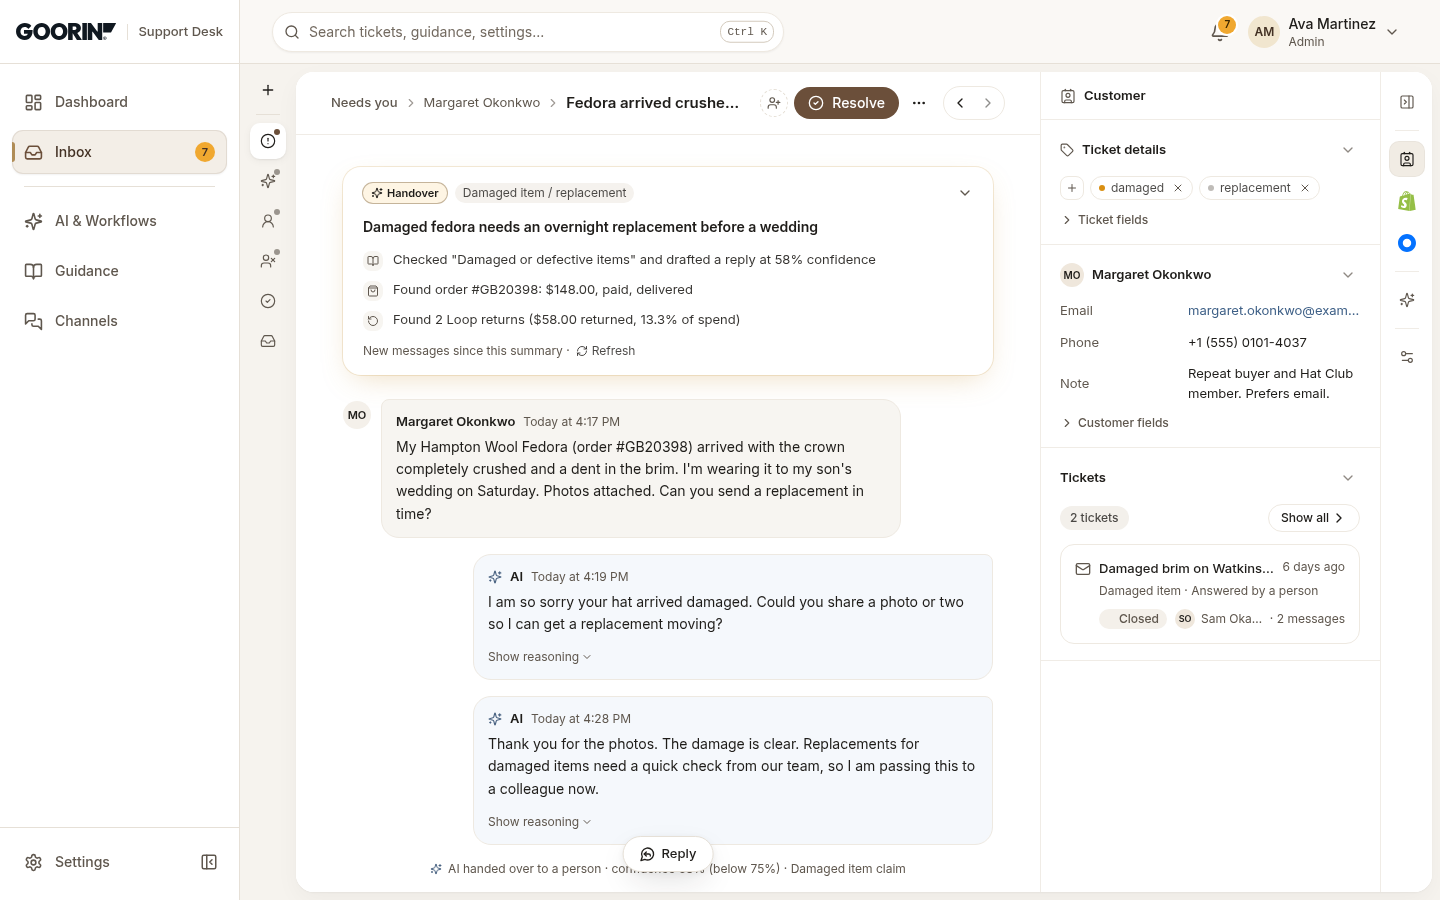
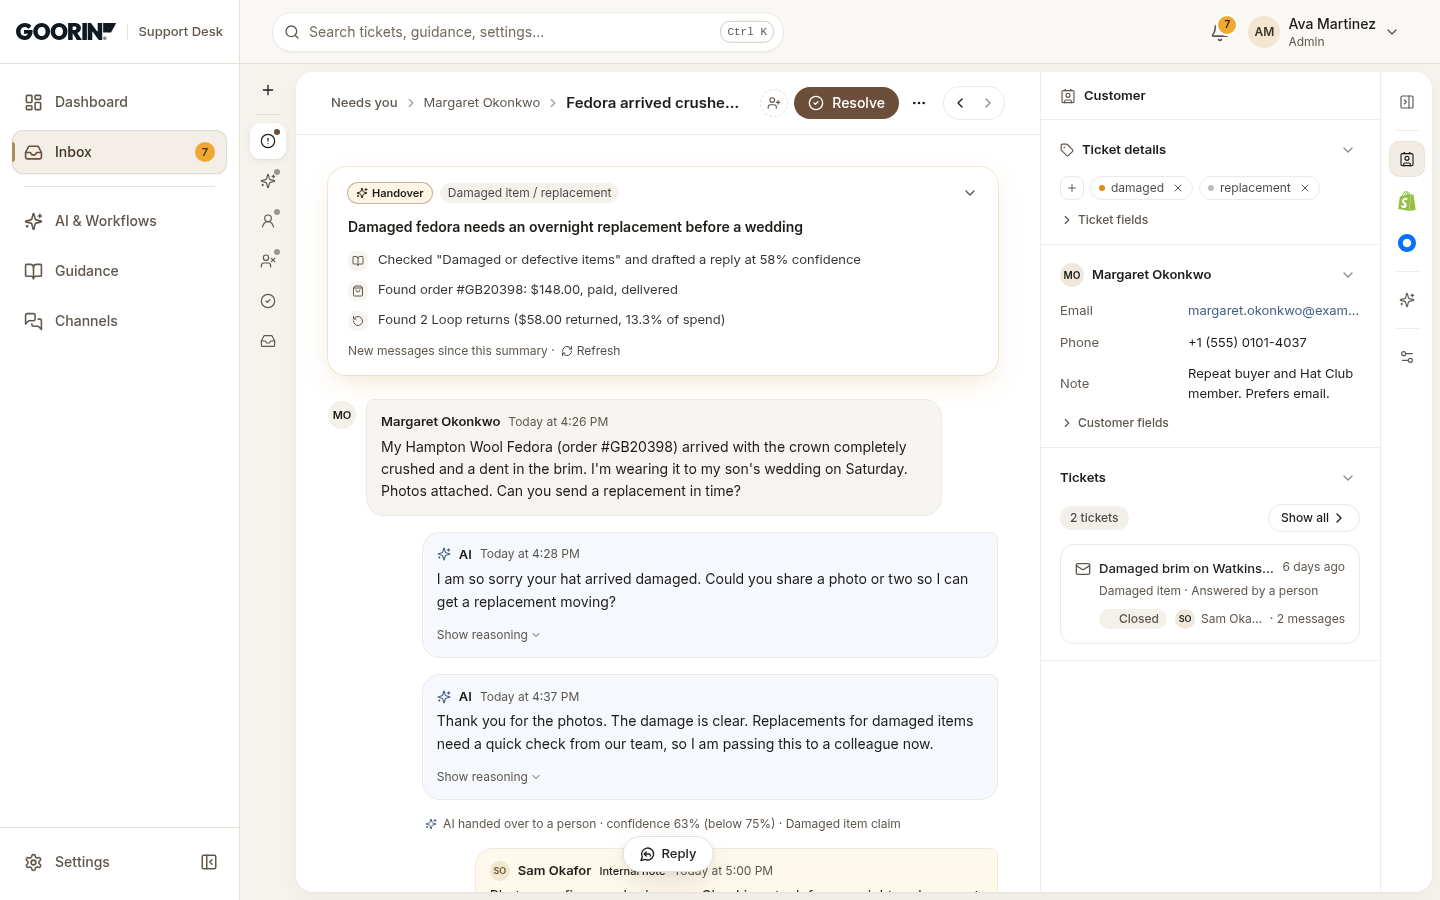
The conversation is wider and now sizes itself to the space it has. I've only seen the builder's screenshots of fixed layouts, not the conversation resizing while a panel opens or closes.
| Screen | Conversation width |
|---|---|
| 1440 laptop, customer panel open | 670px (was about 650px) |
| 1440 laptop, customer panel closed | 795px |
| 1920 monitor, ticket list beside it | 622px |
| 1024 tablet | 610px |

- **Fills its space:** the conversation grows to fill the area between the panels, up to a comfortable maximum, and stays centred.
- **Lined up:** the Handover summary, the AI draft and the reply box all match the same width.
- **Wider bubbles:** messages can stretch further, short ones stay compact, and very wide screens keep a comfortable line length.
- **Slimmer scrollbar:** a thinner scrollbar gives back a little extra room.

On a 1440 laptop with the customer panel open, the gain is small, because the panel and its icon bar take most of the remaining space. If you want the conversation noticeably wider there, I can make the customer panel a bit narrower or shrink the folder column to icons while a ticket is open. All data is MOCKED.

Emergent-Commit-Key: 8b8543f8ba11aa34e253f5180996d566fe1fcf38bed8528707d0f650804f8a4c

Changed region(s): [[0.25, 0.4667, 0.6875, 0.9956], [0.2188, 0.1867, 0.5938, 0.4044], [0.2188, 0.4356, 0.25, 0.4667]]

diff --git a/frontend/src/components/inbox/ConversationPane.tsx b/frontend/src/components/inbox/ConversationPane.tsx
@@ -52,7 +52,7 @@ const SECS_KEY = 'goorin.inbox.panelSections'
 const VIEW_KEY = 'goorin.inbox.panelView'
 
 // One centred 760px column shared by header, thread and draft dock so their edges line up.
-const COL = 'mx-auto box-content max-w-[760px] px-6 xl:px-8 max-sm:px-4'
+const COL = 'thread-col'
 
 // Consecutive system events collapse into one quiet line (REQ-1039).
 const mergeEvents = (list: Message[]) => mergeHandoffs(list).reduce<Message[]>((acc, m) => {
@@ -290,7 +290,7 @@ export const ConversationPane = forwardRef<ConversationHandle, Props>(({ ticketI
       <Button size="sm" onClick={takeOver} data-testid="ai-banner-take-over">Take over</Button>
     </div>
   ) : draft && !writeOwn ? (
-    <div className={inline ? undefined : cn('shrink-0 overflow-hidden border-t border-border bg-background py-4 max-sm:pb-[calc(12px+env(safe-area-inset-bottom))] max-sm:pt-3', GUTTER)} data-testid="draft-dock"><div className={inline ? undefined : COL}>
+    <div className={inline ? undefined : 'thread-pad shrink-0 overflow-hidden border-t border-border bg-background py-4 max-sm:pb-[calc(12px+env(safe-area-inset-bottom))] max-sm:pt-3'} data-testid="draft-dock"><div className={inline ? undefined : COL}>
     <DraftCard
       draft={draft}
       titles={detail.guidanceTitles}
@@ -346,7 +346,7 @@ export const ConversationPane = forwardRef<ConversationHandle, Props>(({ ticketI
   const panelW = vw < 1600 ? 'w-[340px]' : 'w-[360px]'
   return (
     <div className="relative flex min-h-0 min-w-0 flex-1 bg-white max-sm:fixed max-sm:inset-x-0 max-sm:top-0 max-sm:z-40 max-sm:pt-[env(safe-area-inset-top)]" style={isPhone ? { height: vvh ?? '100dvh' } : undefined} data-testid="conversation">
-      <section aria-label="Conversation" className="flex min-w-0 flex-1 flex-col">
+      <section aria-label="Conversation" className="thread-host flex min-w-0 flex-1 flex-col">
         <header className={cn('shrink-0 overflow-hidden border-b border-[#F0ECE6] bg-white', GUTTER)} data-testid={isPhone ? 'conversation-phone-header' : 'conversation-header'}>
           <div ref={headRef} className="flex items-center gap-2.5 px-5 py-3.5 max-sm:h-14 max-sm:gap-2 max-sm:px-2 max-sm:py-0" data-testid="conversation-header-inner">
             <Button variant="ghost" size={isPhone ? 'icon' : 'icon-sm'} className="md:hidden" onClick={onBack} aria-label="Back to inbox" data-testid="conversation-back"><ArrowLeft aria-hidden /></Button>
@@ -381,7 +381,7 @@ export const ConversationPane = forwardRef<ConversationHandle, Props>(({ ticketI
         {detail.fraudAlert && <FraudBanner a={detail.fraudAlert} />}
         <AiRepliedBanner d={{ ...detail, ticket }} />
         <div className="relative flex min-h-0 flex-1 flex-col" data-testid="thread-wrap">
-        <div ref={thread} onScroll={onThreadScroll} className={cn('min-h-0 flex-1 overflow-y-auto bg-white py-8 max-sm:py-4', GUTTER)} data-testid="thread-scroll">
+        <div ref={thread} onScroll={onThreadScroll} className="thread-pad min-h-0 flex-1 overflow-y-auto bg-white py-8 max-sm:py-4" data-testid="thread-scroll">
           <div ref={setColEl} className={COL} data-testid="thread-column">
           <HandoverSummary key={ticket.status} d={{ ...detail, ticket }} />
           <ol className="-my-2 max-sm:-my-1.5" aria-label="Messages" data-testid="message-thread">

diff --git a/frontend/src/components/inbox/MessageItem.tsx b/frontend/src/components/inbox/MessageItem.tsx
@@ -52,7 +52,7 @@ export function MessageItem({ m, reasoning }: { m: Message; channel?: 'email' | 
   return (
     <li data-testid={`message-${m.id}`} data-author={m.authorType} data-internal={m.isInternal || undefined} className={cn('flex gap-2.5 py-2', !customer && 'justify-end')}>
       {customer && <Avatar m={m} />}
-      <div className={cn('min-w-0 max-w-[80%] rounded-2xl border border-[#EEE9E1] px-3.5 py-3', tint)} data-testid="message-block">
+      <div className={cn('min-w-0 max-w-[86%] rounded-2xl border border-[#EEE9E1] px-3.5 py-3', tint)} data-testid="message-block">
         <p className="flex flex-wrap items-center gap-x-2 text-[13px]" data-testid="message-meta">
           {!customer && (ai
             ? <Sparkles className="h-3.5 w-3.5 text-[#4A6382]" aria-hidden />
@@ -63,7 +63,7 @@ export function MessageItem({ m, reasoning }: { m: Message; channel?: 'email' | 
         </p>
         {m.format === 'html'
           ? <div className={cn('mt-1 text-[14px] leading-[1.6] text-ink', richText)} dangerouslySetInnerHTML={{ __html: m.body }} />
-          : <p className="mt-1 whitespace-pre-wrap text-[14px] leading-[1.6] text-ink">{m.body}</p>}
+          : <p className="mt-1 max-w-[84ch] whitespace-pre-wrap text-[14px] leading-[1.6] text-ink">{m.body}</p>}
         {ai && <Reasoning m={m} reasoning={reasoning} />}
         {m.approvedBy && <p className="mt-1.5 text-xs text-ink-muted" data-testid="approved-by">Approved by {m.approvedBy}</p>}
       </div>

diff --git a/frontend/src/index.css b/frontend/src/index.css
@@ -150,3 +150,9 @@
 @container (min-width: 720px) { .cq-pair { grid-template-columns: repeat(2, minmax(0, 1fr)); } }
 @container (min-width: 960px) { .cq-colors { grid-template-columns: repeat(4, minmax(0, 1fr)); } }
 @media (max-width: 380px) { .cq-colors { grid-template-columns: minmax(0, 1fr); } }
+/* Ticket thread: sizes to its pane via container queries. */
+.thread-host { container: thread / inline-size; }
+.thread-pad { padding-inline: 16px; scrollbar-gutter: stable; scrollbar-width: thin; transition: padding-inline 200ms ease-out; }
+@container thread (min-width: 600px) { .thread-pad { padding-inline: 24px; } }
+@container thread (min-width: 720px) { .thread-pad { padding-inline: 32px; } }
+.thread-col { width: 100%; max-width: clamp(680px, 94%, 1120px); margin-inline: auto; }
